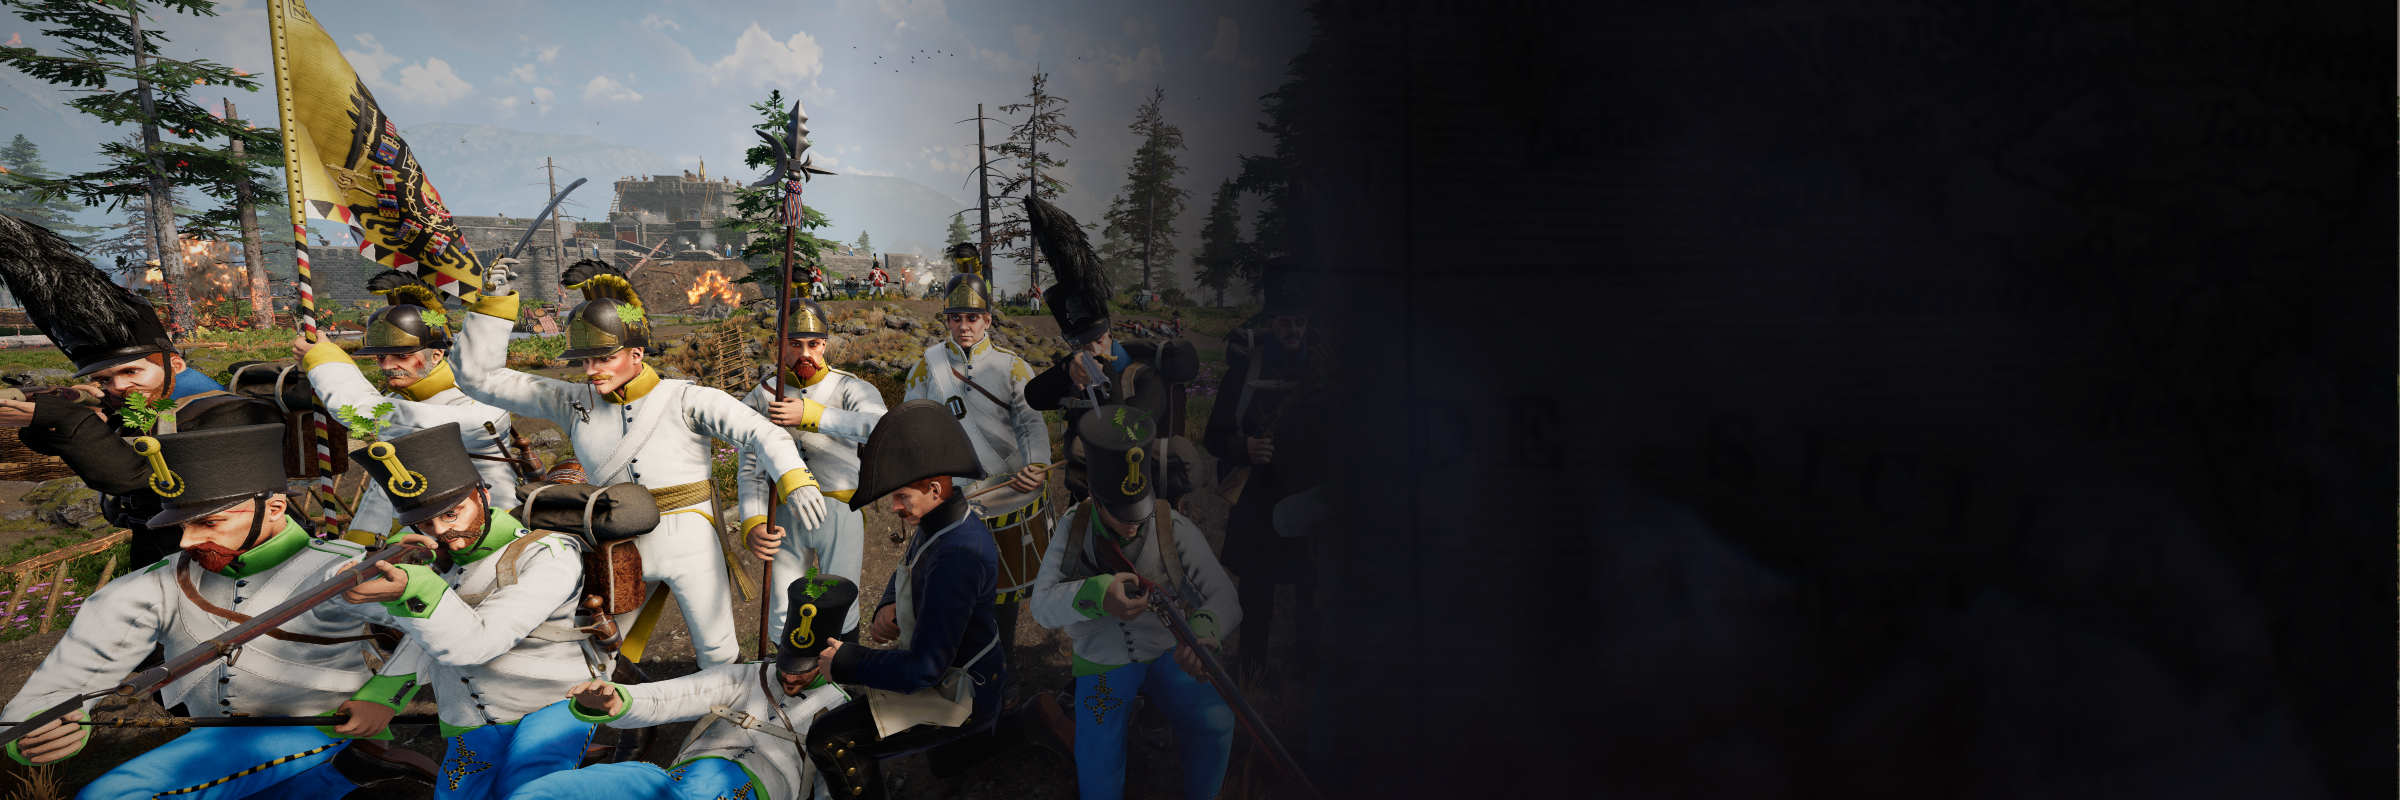
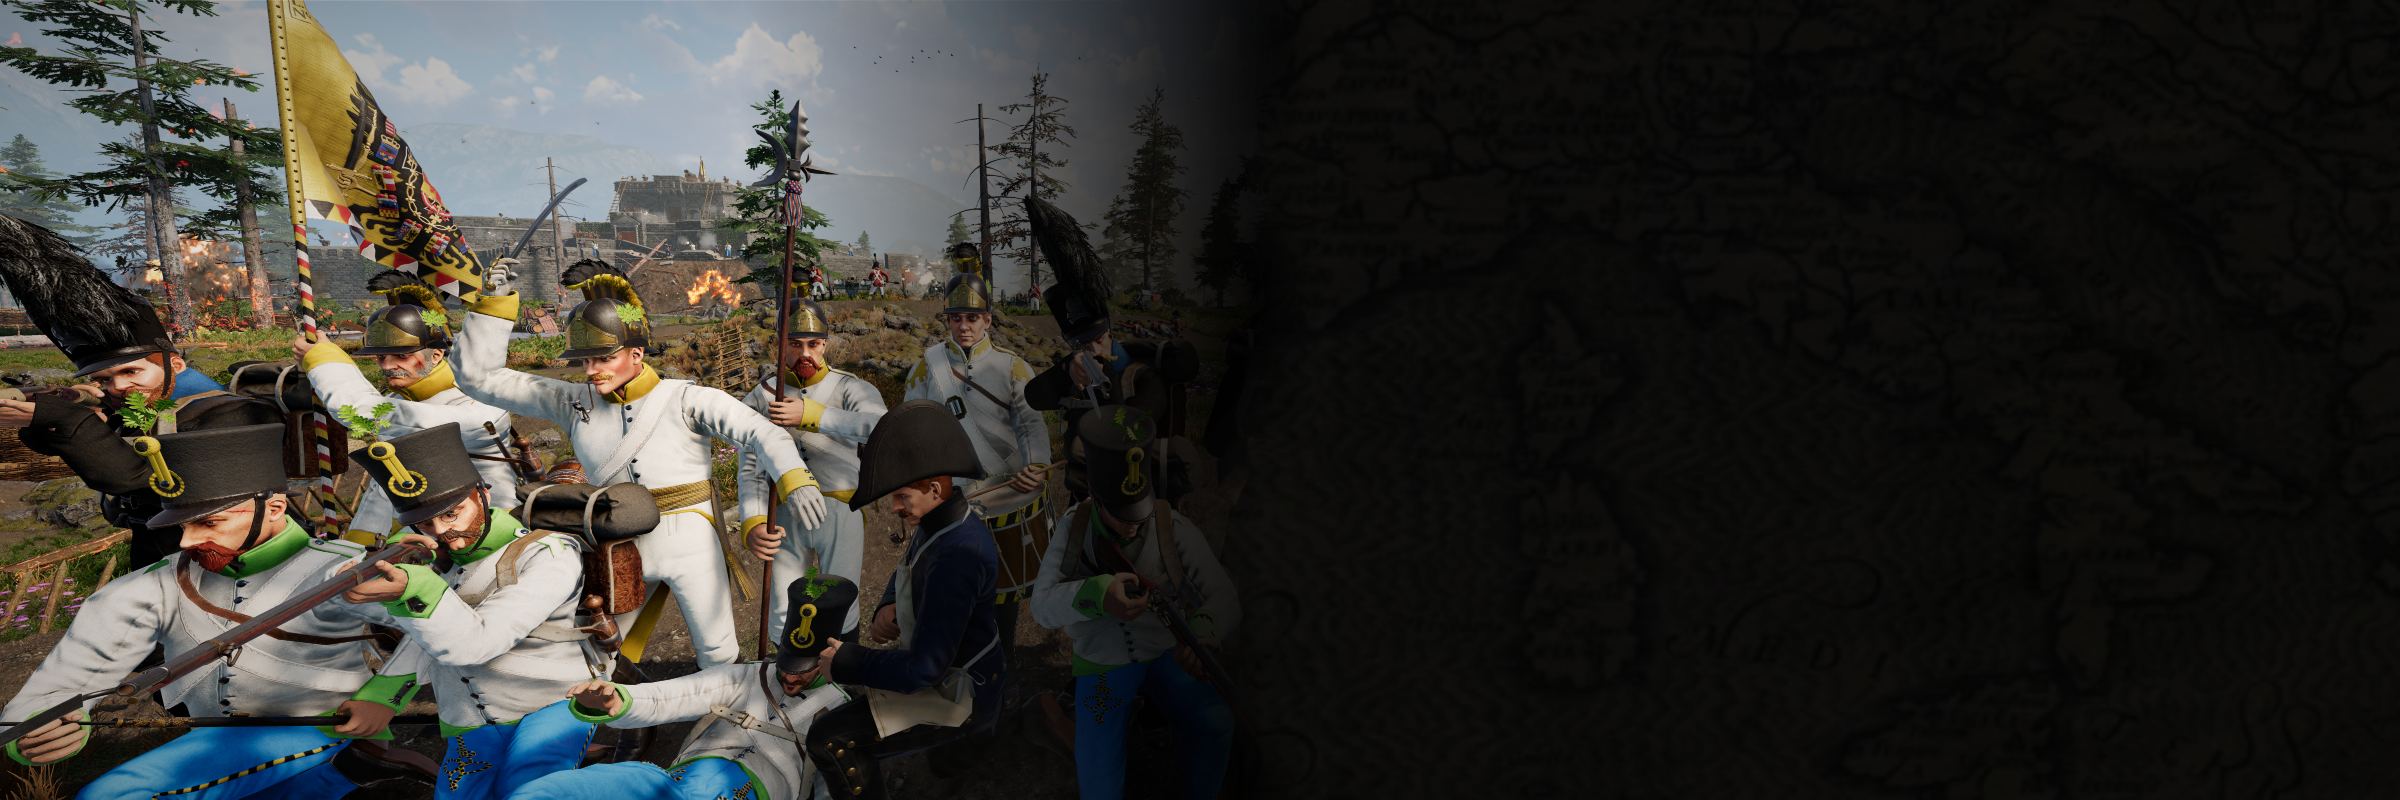
changes mkay

Changed region(s): [[0.3125, 0.0, 0.5625, 1.0], [0.3125, 0.8438, 0.4062, 0.9375]]

diff --git a/index.html b/index.html
@@ -28,15 +28,24 @@
             </button>
             <a class="navbar-brand" href="#home" ><img height="26px" width="52.78px" src="src/img/TopBar/TopBar_CompanyLogo.png" alt="anvil-menu-logo" /></a>
             <div class="collapse navbar-collapse" id="mainmenu">
-                <ul class="nav nav-pills navbar-nav">
-                    <li class="nav-item">
-                        <a class="nav-link link-color" href="https://store.steampowered.com/news/app/589290" ><img src="src/img/TopBar/TopBar_Button_Presskit.png" /></a>
+                <ul class="nav navbar-nav">
+                    <li class="">
+                        <a class="" href="https://store.steampowered.com/news/app/589290">
+                            <img id="presskit" src="src/img/TopBar/web-presskit.png" />
+                            <!-- <img id="presskitHover" src="src/img/TopBar/web-presskit_on-hover.png" class="hidden" /> -->
+                        </a>
                     </li>
                     <li class="nav-item">
-                        <a class="nav-link link-color" href="https://discord.com/invite/holdfastgame" ><img src="src/img/TopBar/TopBar_Button_Discord.png" /></a>
+                        <a class="" href="https://discord.com/invite/holdfastgame">
+                            <img id="discord" src="src/img/TopBar/web-discord.png" />
+                            <!-- <img id="discordOnHover" src="src/img/TopBar/web-discord_on-hover.png" class="hidden" /> -->
+                        </a>
                     </li>
                     <li class="nav-item">
-                        <a class="nav-link link-color" href="#enlist"><img src="src/img/TopBar/TopBar_Button_BuyNow.png" /></a>
+                        <a class="" href="#enlist">
+                            <img id="buynow" src="src/img/TopBar/web-buy-now.png" />
+                            <!-- <img id="buynowOnHover" src="src/img/TopBar/web-buy-now_on-hover.png" class="hidden" /> -->
+                        </a>
                     </li>
                 </ul>
             </div>
@@ -58,7 +67,7 @@
                             <pre> </pre><pre> </pre>
                             <div class="col-lg-12 col-md-12 col-sm-12 col-12">
                                 <!-- <img src="src/img/Holdfast_NaW_IP_Logo.webp" alt="holdfast-nations-at-war-logo" class="hfLogo img-fluid rounded mx-auto d-block"> -->
-                                <img src="src/img/website-holdfast-logo-with-shadow.png" alt="holdfast-nations-at-war-logo" class="hfLogoShadow img-fluid rounded mx-auto d-block">
+                                <img src="src/img/website-holdfast-logo.png" alt="holdfast-nations-at-war-logo" class="hfLogoShadow img-fluid rounded mx-auto d-block">
                             </div>
                         </div>
                     </div>
@@ -72,14 +81,18 @@
                             <div class="mainButtonsContainer">
                                 <div class="mainWatchTrailer">
                                     <a href="">
-                                        <img id="trailerOff" class="visible" src="src/img/TrailerPage/TrailerPage_Off_Button_WatchTrailer.png" />
-                                        <img id="trailerOn" class="hidden" src="src/img/TrailerPage/TrailerPage_On_Button_WatchTrailer.png" />
+                                        <!-- <img id="trailerOff" class="visible" src="src/img/TrailerPage/TrailerPage_Off_Button_WatchTrailer.png" />
+                                        <img id="trailerOn" class="hidden" src="src/img/TrailerPage/TrailerPage_On_Button_WatchTrailer.png" /> -->
+                                        <img id="trailerOff" class="visible" src="src/img/TrailerPage/web-watch-trailer.png" />
+                                        <img id="trailerOn" class="hidden" src="src/img/TrailerPage/web-watch-trailer_on-hover.png" />
                                     </a>
                                 </div>
                                 <div class="mainPlayHoldfast">
                                     <a href="#enlist">
-                                        <img id="playOff" class="visible" src="src/img/TrailerPage/TrailerPage_Off_Button_PlayHoldfast.png" />
-                                        <img id="playOn" class="hidden" src="src/img/TrailerPage/TrailerPage_On_Button_PlayHoldfast.png" />
+                                        <!-- <img id="playOff" class="visible" src="src/img/TrailerPage/TrailerPage_Off_Button_PlayHoldfast.png" />
+                                        <img id="playOn" class="hidden" src="src/img/TrailerPage/TrailerPage_On_Button_PlayHoldfast.png" /> -->
+                                        <img id="playOff" class="visible" src="src/img/TrailerPage/web-wishlist.png" />
+                                        <img id="playOn" class="hidden" src="src/img/TrailerPage/web-wishlist_on-hover.png" />
                                     </a>
                                 </div>
                             </div>
@@ -151,11 +164,16 @@
             </div>
         </div>
     </section>
-    <div class="divider"></div>
+    <div class="blkDivider"></div>
     <section class="d-flex justify-content-center align-items-center"> 
         <div class="w-100 h-100 contentBG con2">
+            <div class="mobImg">
+                <img src="src/img/HoldfastCommunity_Banner_Mobile.png" class="imgFade" width="100%"/>
+            </div>
             <div class="container wide">
-                <br /><br /><br />
+                <div class="topgap">
+                    <br /><br /><br />
+                </div>
                 <div class="row">
                     <div class="col-lg-6 col-md-12 col-sm-12 col-12">
                         <h1 class="display-1 conTitle">The Holdfast Community</h1>
@@ -178,8 +196,13 @@
     <div class="blkDivider"></div>
     <section class="d-flex justify-content-center align-items-center"> 
         <div class="w-100 h-100 contentBG con3">
+            <div class="mobImg">
+                <img src="src/img/BattleAcrossEras_Banner_Mobile.png" class="imgFade" width="100%"/>
+            </div>
             <div class="container wide">
-                <div class="contentSpacer"></div>
+                <div class="topgap">
+                    <br /><br /><br />
+                </div>
                 <div class="row">
                     <div class="col-lg-6 col-md-12 col-sm-12 col-12">
                         <h1 class="display-1 conTitle">Battle Across Eras</h1>
@@ -202,8 +225,13 @@
     <div class="blkDivider"></div>
     <section class="d-flex justify-content-center align-items-center"> 
         <div class="w-100 h-100 contentBG con5">
+            <div class="mobImg">
+                <img src="src/img/BattlefieldRoles_Banner_Mobile.png" class="imgFade" width="100%"/>
+            </div>
             <div class="container wide">
-                <br /><br /><br />
+                <div class="topgap">
+                    <br /><br /><br />
+                </div>
                 <div class="row justify-content-end">
                     <div class="col-lg-6 col-md-12 col-sm-12 col-12">
                         <h1 class="display-1 conTitle">Battlefield Roles</h1>
@@ -226,8 +254,13 @@
     <div class="blkDivider"></div>
     <section class="d-flex justify-content-center align-items-center"> 
         <div class="w-100 h-100 contentBG con6">
+            <div class="mobImg">
+                <img src="src/img/Customization&Progression_Banner_Mobile.png" class="imgFade" width="100%"/>
+            </div>
             <div class="container wide">
-                <br /><br /><br />
+                <div class="topgap">
+                    <br /><br /><br />
+                </div>
                 <div class="row">
                     <div class="col-lg-6 col-md-12 col-sm-12 col-12">
                         <h1 class="display-1 conTitle">Customisation & Progression</h1>
@@ -250,11 +283,16 @@
     <div class="blkDivider"></div>
     <section class="d-flex justify-content-center align-items-center"> 
         <div class="w-100 h-100 contentBG con7">
+            <div class="mobImg">
+                <img src="src/img/WarringNations_Banner_Mobile.png" class="imgFade" width="100%"/>
+            </div>
             <div class="container wide">
-                <br /><br /><br />
+                <div class="topgap">
+                    <br /><br /><br />
+                </div>
                 <div class="row">
                     <div class="col-lg-6 col-md-12 col-sm-12 col-12">
-                        <h1 class="display-1 conTitle">Warring Nations</h1>
+                        <h1 class="display-1 conTitle testFade">Warring Nations</h1>
                         <br />
                     </div>
                 </div>
@@ -321,8 +359,30 @@
                         <div class="footerCopyright">
                             <span>© 2025 Anvil Game Studios</span>
                         </div>
-                        <div style="text-align: right; font-size: 12px; width: 30%;">
-                            <span>We are a community driven team. <a href="">Send us feedback</a></span>
+                        <div class="footerFeedback">
+                            <!-- <div class="footerSocials">
+                                <a class="" href="https://discord.com/invite/holdfastgame">
+                                    <span class="bi bi-discord"></span>
+                                </a>
+                                <a class="" href="https://www.tiktok.com/@anvilgamestudios?lang=en">
+                                    <span class="bi bi-tiktok"></span>
+                                </a>
+                                <a class="" href="https://www.reddit.com/r/holdfastgame/">
+                                    <span class="bi bi-reddit"></span>
+                                </a>
+                                <a class="" href="https://www.youtube.com/anvilgamestudio">
+                                    <span class="bi bi-youtube"></span>
+                                </a>
+                                <a class="" href="https://www.facebook.com/holdfastgame/">
+                                    <span class="bi bi-facebook"></span>
+                                </a>
+                                <a class="" href="https://x.com/holdfastgame">
+                                    <span class="bi bi-twitter-x"></span>
+                                </a>
+                            </div> -->
+                            <div style="display: flex; justify-content: end;">
+                                <span>We are a community driven team. </span><a href="https://discord.com/invite/holdfastgame"><span style="font-size: 12px;" class="bi bi-chat-fill"> Send us feedback</span></a>
+                            </div>
                         </div>
                     </div>
                 </div>
@@ -410,13 +470,31 @@
             $(this).attr('src', 'src/img/EnlistTodayPage/EnlistToday_On_STANDARDEDITION.png');
         }, function () {
             $(this).attr('src', 'src/img/EnlistTodayPage/EnlistToday_Off_STANDARDEDITION.png')
-        })
+        });
 
         $('#collEdImg').hover(function (){
             $(this).attr('src', 'src/img/EnlistTodayPage/EnlistToday_On_COLLECTORSEDITION.png');
         }, function () {
             $(this).attr('src', 'src/img/EnlistTodayPage/EnlistToday_Off_COLLECTORSEDITION.png')
-        })
+        });
+
+        $('#presskit').hover(function (){
+            $(this).attr('src', 'src/img/TopBar/web-presskit_on-hover.png');
+        }, function () {
+            $(this).attr('src', 'src/img/TopBar/web-presskit.png')
+        });
+
+        $('#discord').hover(function (){
+            $(this).attr('src', 'src/img/TopBar/web-discord_on-hover.png');
+        }, function () {
+            $(this).attr('src', 'src/img/TopBar/web-discord.png')
+        });
+
+        $('#buynow').hover(function (){
+            $(this).attr('src', 'src/img/TopBar/web-buy-now_on-hover.png');
+        }, function () {
+            $(this).attr('src', 'src/img/TopBar/web-buy-now.png')
+        });
     </script>
 </body>
 </html>

diff --git a/src/css/style.css b/src/css/style.css
@@ -113,6 +113,23 @@ header {
     margin-left: 5px;
     font-size: 14px;
     color: #FFFFFF80;
+    color: #585858;
+}
+
+.footerFeedback {
+    color: #585858; 
+    text-align: right; 
+    font-size: 12px; 
+    width: 30%;
+}
+
+.footerFeedback a {
+    color: white;
+    text-decoration: none;
+}
+
+.footerFeedback a:hover {
+    color: #d2ad50;
 }
 
 .hidden {
@@ -142,6 +159,7 @@ header {
     color: rgba(225, 210, 4, 0.911);
     color: rgba(201, 166, 120, 0.8);
     color: rgba(201, 166, 120, 0.8);
+    color: #d2ad50;
 }
 
 .footBrand {
@@ -203,6 +221,20 @@ header {
     .bg-nav {
         background-image: url(../img/TopBar/TopBar_TopBanner_Mobile.png)!important;
     }
+
+    .nav-item {
+        list-style: none!important;
+        list-style-type: none!important;
+    }
+
+    #discord {
+        margin-left: 0px!important;
+    }
+
+    #buynow {
+        margin-left: 0px!important;
+    }
+    
 }
 
 @media (max-width: 768px) {
@@ -211,10 +243,22 @@ header {
     }
 
     .con1, .con2, .con3, .con4, .con5, .con6, .con7 {
-        background-repeat: no-repeat!important;
+        /* background-repeat: no-repeat!important; */
         background-position: top!important;
         text-align: center!important;
         background-size: 100%!important;
+    }
+
+    .con2, .con3, .con5, .con6, .con7 {
+        background-image: url(../img/ContentBG_Mobile.PNG)!important;
+    }
+
+    .topgap {
+        display: none;
+    }
+
+    .mobImg {
+        display: flex!important;
     }
 }
 
@@ -306,7 +350,7 @@ header {
 }
 
 #trailerOff {
-    opacity: 50%;
+    opacity: 65%;
 }
 
 .mainPlayHoldfast {
@@ -315,13 +359,13 @@ header {
 }
 
 #playOff {
-    opacity: 50%;
+    opacity: 65%;
 }
 
 .bg-nav {
-    background-image: url(../img/TopBar/TopBar_TopBanner.png);
-    /* background-size: contain; fix for max reso? */
-    border-bottom: 2px solid rgba(173, 146, 107, 0.8);
+    background-image: url(../img/TopBar/web-new-top-bar.png);
+    /* border-bottom: 2px solid rgba(173, 146, 107, 0.8); */
+    border-bottom: 2px solid rgba(102, 102, 102, 0.8);
 }
 
 .navbar {
@@ -412,8 +456,8 @@ header {
 
 .contentBG {
     background-position: center;
-    background-color: rgba(0, 0, 0, 0.5);
-    background-blend-mode: darken;
+    /* background-color: rgba(0, 0, 0, 0.5);
+    background-blend-mode: darken; */
     background-size: cover;
 }
 
@@ -431,6 +475,12 @@ header {
 
 .nav-item {
     margin: 0px, 0px, 0px, 35px;
+    list-style-type: disc;
+    list-style-position: inside;
+}
+
+.nav-item::marker {
+    color: #3D3D3D;
 }
 
 .nav-item:hover .nav-link {
@@ -440,6 +490,14 @@ header {
 
 .nav-pills {
     border-radius: 1em;
+}
+
+#discord {
+    margin-left: -20px;
+}
+
+#buynow {
+    margin-left: -15px;
 }
 
 .navbuy {
@@ -526,4 +584,12 @@ header {
 
 .enlistXbox {
     text-align: left;
+}
+
+.imgFade {
+    mask-image: linear-gradient(to bottom, black, black 25%, black 70%, transparent);
+}
+
+.mobImg {
+    display: none;
 }
